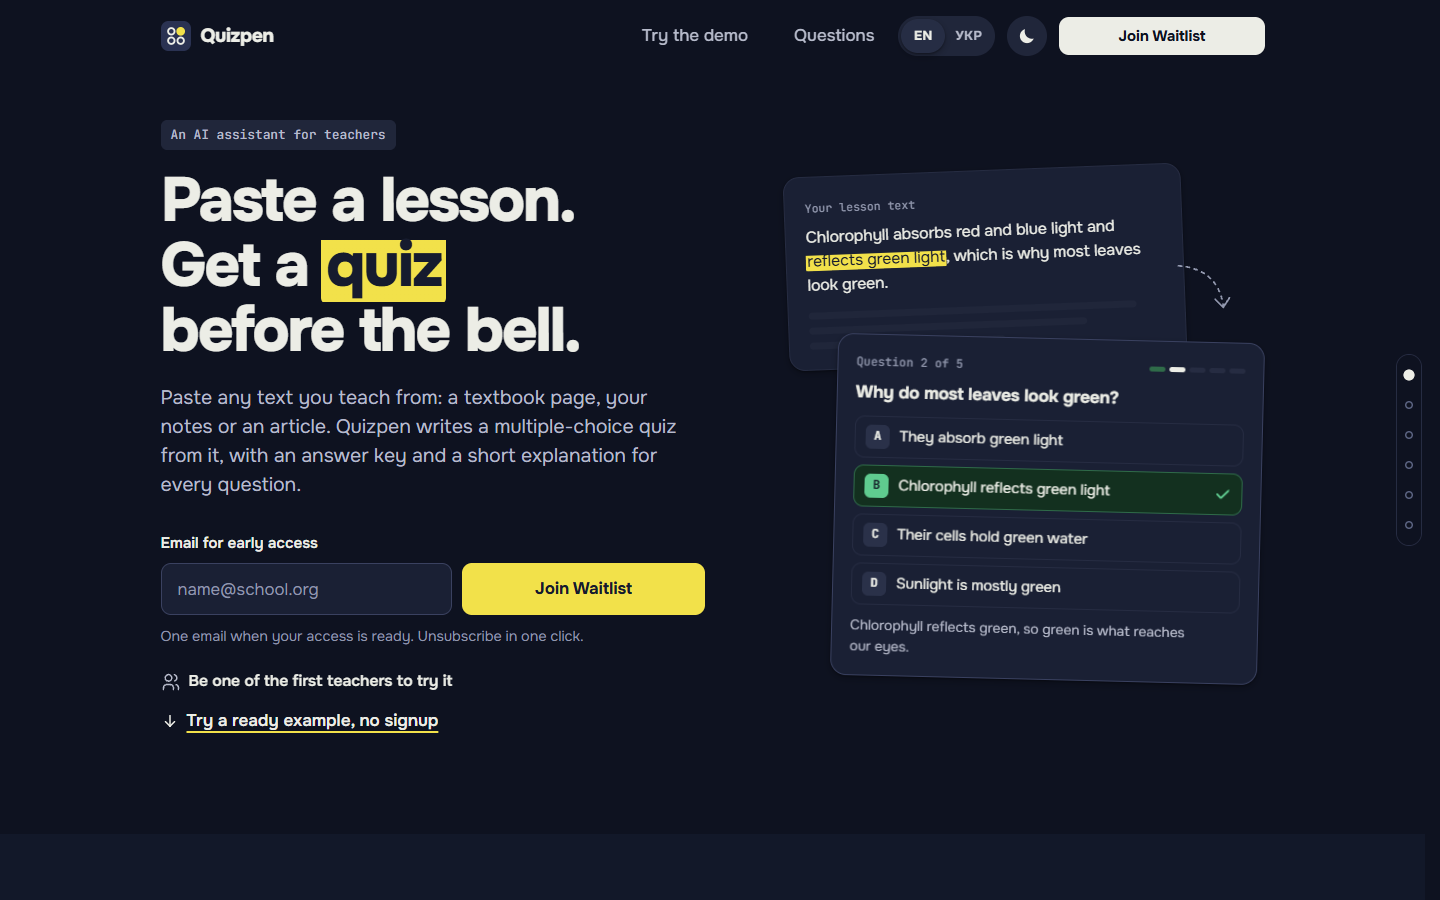
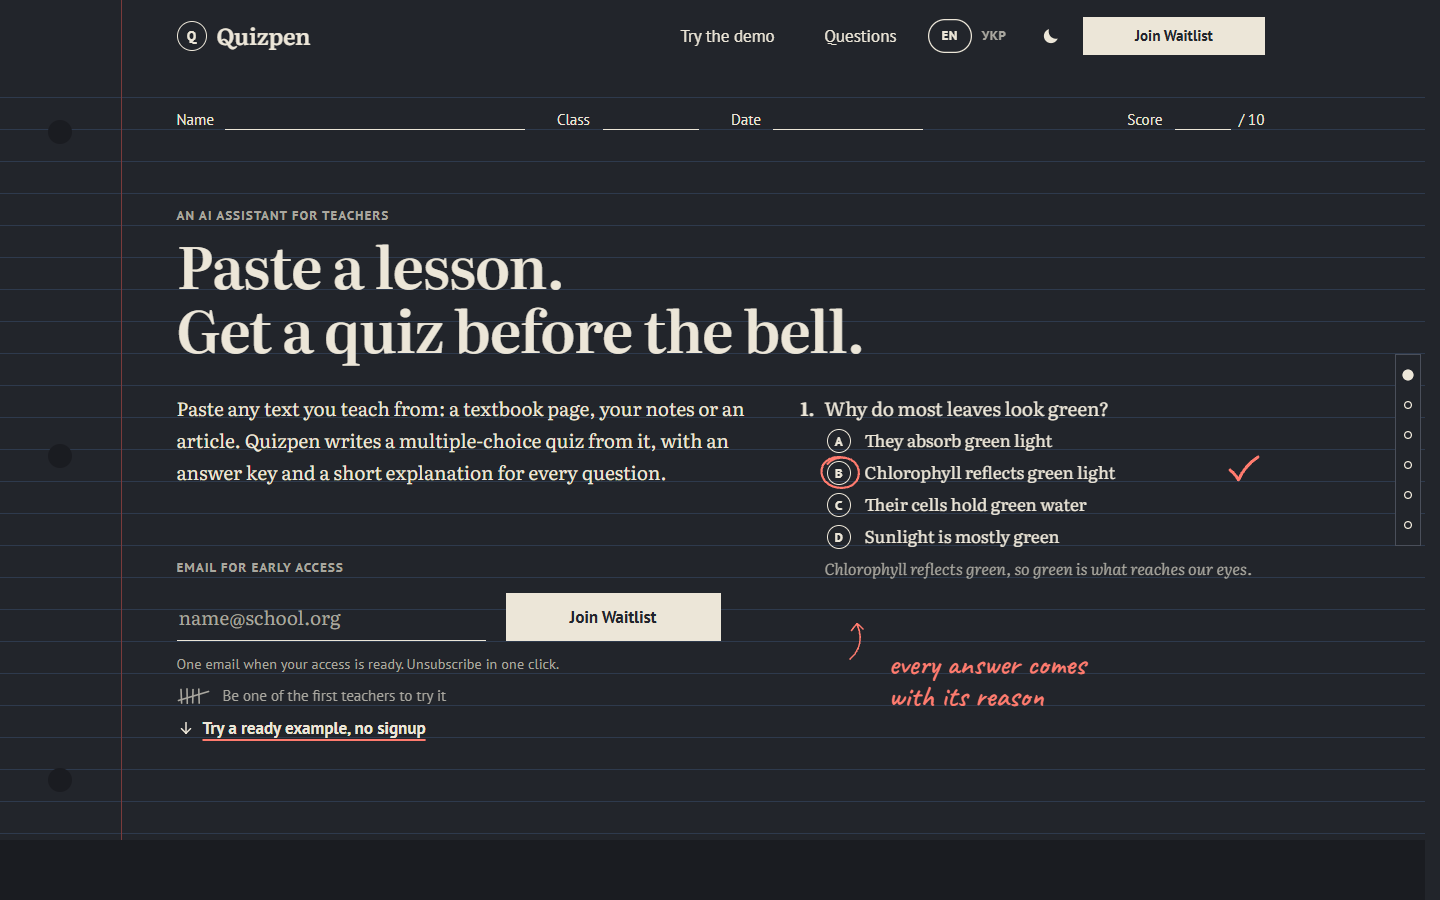
Worksheet design, step 1: nav, consent, ink buttons, headline breaks, checks

diff --git a/HANDOVER-restyle-1.md b/HANDOVER-restyle-1.md
@@ -15,7 +15,18 @@ Brief: tokens, fonts, header/rail/drawer, hero, thanks, footer, consent bar, met
 - Not fixed, for the orchestrator: (a) EN h1 at 1440 breaks "Paste a lesson. Get a / quiz before the bell." (mock: break after "lesson."); a fix needs a <br> or nbsp in hero.title (app.js + index.html) and newline support in the h1 ghosts (ui.js plain() collapses it), so it was left. (b) Reserved heights (UK ghosts) leave blank ruled lines under the EN h1/sub/try-link; by design. (c) Join button stays yellow btn-accent (step 2 decides). (d) Header height kept 64/72px (not the mock's 96). (e) burger background and the right rail dots are nav.css (item "nav.css" below).
 - Last two CSS tweaks (art li font 1rem <640 with tick padding only on B; no extra top margin on the art below 1100) were shot but those pictures were not reviewed (context cap): first look of the next agent = hero art at 375.
 
-## Left (in this order)
+## Step 1 closed (items 3-5 + main-chat fixes a-c): DONE, final commit "Worksheet design, step 1: nav, consent, ink buttons, headline breaks, checks"
+- (a) hero.title EN/UK = two `.h1-line` block spans (app.js + index.html default); h1 ghosts keep the break: ui.js plainLines() joins .h1-line texts with \n, ghosts are white-space: pre-line.
+- (b) >=1100: .hero-copy is display: contents; kicker + h1 span both columns (the EN/UK second sentence does not fit the 584px left column at 52-58px), sub/join/counter/try in column 1, .hero-art in column 2 rows 4-7; row-gap 0, kicker margin-top 64.
+- (c) #join-btn is btn-ink (header-cta, copy-btn already ink; dark inverts via tokens); try-link underline --pen; global focus ring 2px solid --focus (ink), offset 3, square.
+- nav.css: rail = opaque paper strip, 1px line-strong edge, no blur/shadow, ink ring dots (current filled), square label with 1px ink border; drawer flat, --rule borders, current link label underlined; burger/close transparent and square.
+- consent.css: square, flat, 1.5px ink edge, ink focus outline, primary hover uses --ink-hover (was --night-2, unreadable in dark).
+- CLS fixes: Literata 400 fallback 108.2% (sweep over sub widths; 107.4% gained a line at 375 on the swap); Cyrillic-only PT Sans fallbacks (400 93%, 700 86.9%); fixed em widths for the sheet labels.
+- ui-check: BG = worksheet paper; PLAYER_BG keeps the old player colours (web/play not restyled).
+- Checks: firstpaint 17/17, ui 30/32 (2 sub-pixel "Join boxes identical" 0.11-0.14px, were 3 before), check 69/69, nav 43/43, analytics 31/31, demo 30/30, play 208/208, slow 25/25.
+- Left for step 2: demo band and lower sections still use --accent yellow (gen/show buttons, ea-btn in app.js, chips, demo focus rings, .final band, toast icon, feature icons); player (web/play) old palette; blank ruled lines from reserved UK heights (by design).
+
+## Left (in this order, historical)
 1. DONE (see above). index.html body:
    - h1 span: drop `<mark class="hl">quiz</mark>` (plain text, same as dictionary).
    - brand (header + footer): replace svg.brand-mark with `<span class="brand-mark" aria-hidden="true">Q</span>` (circled Q, 30px, 1.5px ink ring, PT Sans 700 14px; name in Literata 600 ~23px).
